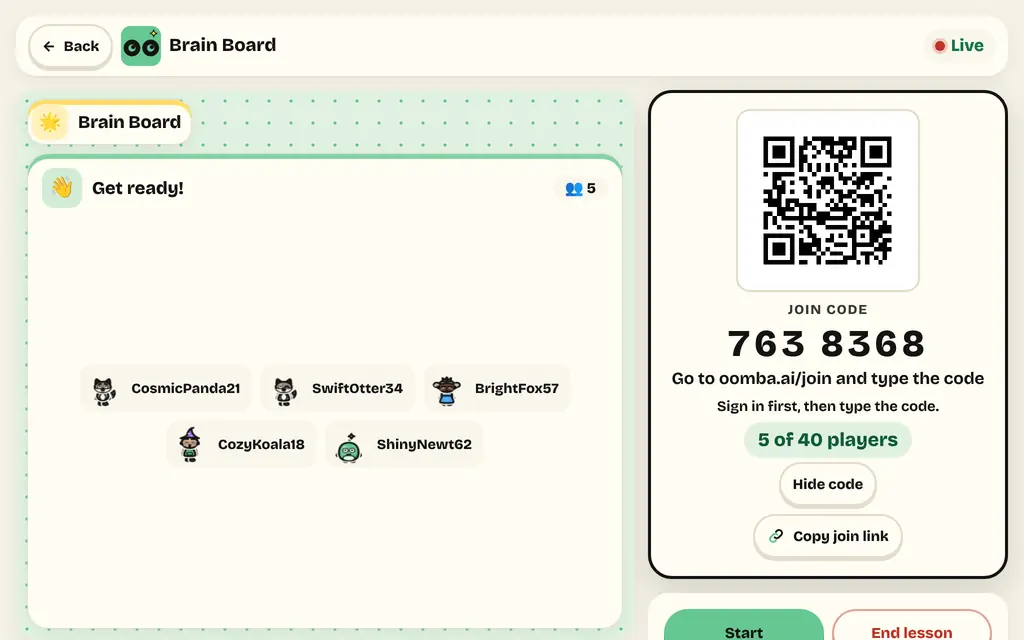
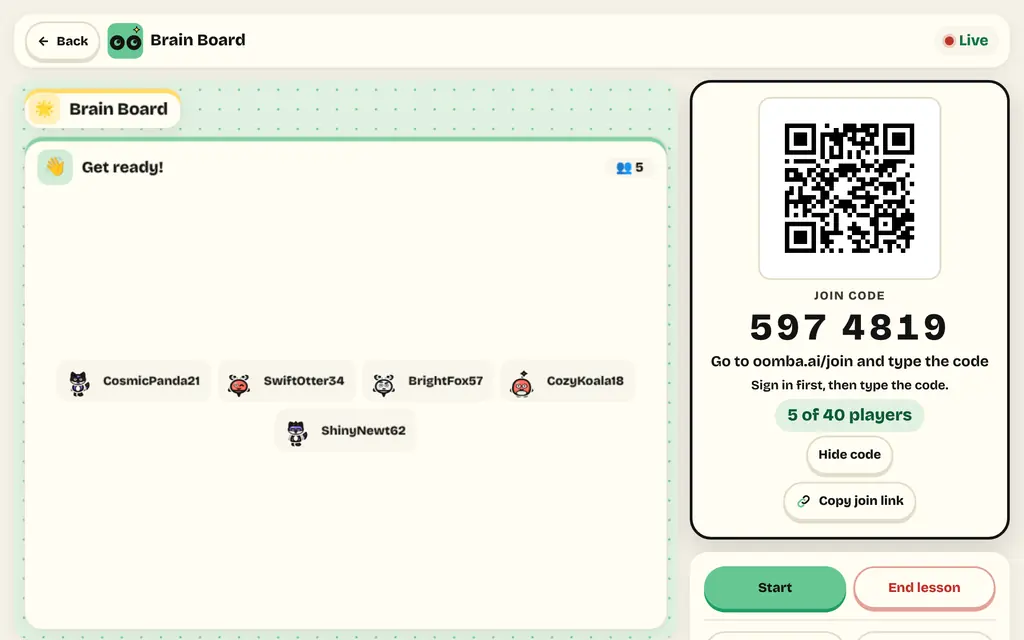
/teachers/live hero: the lobby picture shows the Start and End lesson buttons whole (#709)
The board picture itself was cut: at the 1024 x 640 capture window the lobby's Start and End lesson
buttons end at y=657, so every 16:10 picture of it (the /teachers/live hero, the How it works step,
the OG card) showed them cut in half. The CSS was fine (object-fit: contain in a 16:10 box).
how-shots now takes the lobby in a 1152 x 720 window (still 16:10, saved 1024 and 2048 wide), where
the buttons end at y=685. Re-taken light and dark (live-lobby-d-*, live-lobby-dark-d-*).

Claude-Session: https://claude.ai/code/session_013fJHoNyx7YpmiySDgm2YvR

diff --git a/scripts/how-shots.js b/scripts/how-shots.js
@@ -494,7 +494,11 @@ async function liveShots({ person, shot }, ids) {
   await until(async () => (await host.locator('#lv-roster li').count()) >= STUDENTS.length, 'everyone in the roster');
   await liveFrame(host);
   await host.waitForTimeout(1200);
+  // The board in a 1152 x 720 window (still 16:10, saved 1024 and 2048 wide like the other desktop shots): at 1024 x 640
+  // its Start and End lesson buttons sat below the picture's edge, and /teachers/live showed them cut in half.
+  await host.setViewportSize({ width: 1152, height: 720 }); await host.waitForTimeout(800);
   made.push({ slug: 'live-lobby', kind: 'desk', png: await shot(host, 'live-lobby-desk', { names: true }) });
+  await host.setViewportSize({ width: 1024, height: 640 }); await host.waitForTimeout(400);
   {
     // The same projector page on a phone (it takes over the host's line; the laptop page reloads after).
     const p = await person('phone', 'MsRivera');
